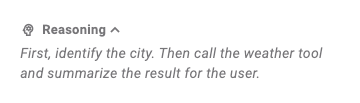
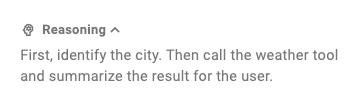
Demo: add New chat button; de-italicize reasoning text
- AiReasoning expanded text now uses regular subdued type (no italic)
- Demo controller lifted to the home page; header shows a New chat (clear)
  button on the Chat tab; ChatScreen is now stateless and takes the controller
- Screenshots/GIF regenerated

diff --git a/demo/lib/main.dart b/demo/lib/main.dart
@@ -43,6 +43,14 @@ class _HomePage extends StatefulWidget {
 
 class _HomePageState extends State<_HomePage> {
   int _tab = 0;
+  final UseChatController _controller =
+      UseChatController(provider: const DemoChatProvider());
+
+  @override
+  void dispose() {
+    _controller.dispose();
+    super.dispose();
+  }
 
   @override
   Widget build(BuildContext context) {
@@ -52,7 +60,7 @@ class _HomePageState extends State<_HomePage> {
           SafeArea(
             bottom: false,
             child: Padding(
-              padding: const EdgeInsets.fromLTRB(20, 14, 20, 10),
+              padding: const EdgeInsets.fromLTRB(20, 10, 12, 8),
               child: Row(
                 children: [
                   const Text(
@@ -64,14 +72,14 @@ class _HomePageState extends State<_HomePage> {
                     ),
                   ),
                   const Spacer(),
-                  Container(
-                    width: 10,
-                    height: 10,
-                    decoration: const BoxDecoration(
-                      color: Color(0xFF22C55E),
-                      shape: BoxShape.circle,
+                  // New-chat button (Chat tab only).
+                  if (_tab == 0)
+                    IconButton(
+                      icon: const Icon(Icons.edit_square),
+                      color: const Color(0xFF0D0D0D),
+                      tooltip: 'New chat',
+                      onPressed: _controller.clear,
                     ),
-                  ),
                 ],
               ),
             ),
@@ -99,7 +107,10 @@ class _HomePageState extends State<_HomePage> {
           Expanded(
             child: IndexedStack(
               index: _tab,
-              children: const [ChatScreen(), GalleryScreen()],
+              children: [
+                ChatScreen(controller: _controller),
+                const GalleryScreen(),
+              ],
             ),
           ),
         ],
@@ -108,28 +119,15 @@ class _HomePageState extends State<_HomePage> {
   }
 }
 
-/// A live chat backed by the scripted [DemoChatProvider].
-class ChatScreen extends StatefulWidget {
-  /// Creates the chat screen.
-  const ChatScreen({super.key});
+/// A live chat backed by a [UseChatController] (owned by the parent).
+class ChatScreen extends StatelessWidget {
+  /// Creates the chat screen bound to [controller].
+  const ChatScreen({super.key, required this.controller});
 
-  @override
-  State<ChatScreen> createState() => ChatScreenState();
-}
-
-/// State for [ChatScreen]; public so tests can drive the controller.
-class ChatScreenState extends State<ChatScreen> {
-  /// The chat controller bound to the demo provider.
-  final UseChatController controller =
-      UseChatController(provider: const DemoChatProvider());
+  /// The chat controller driving the conversation.
+  final UseChatController controller;
 
   static const DemoTextRenderer _renderer = DemoTextRenderer();
-
-  @override
-  void dispose() {
-    controller.dispose();
-    super.dispose();
-  }
 
   @override
   Widget build(BuildContext context) {

diff --git a/packages/flutter_ai_elements/lib/src/widgets/ai_reasoning.dart b/packages/flutter_ai_elements/lib/src/widgets/ai_reasoning.dart
@@ -65,12 +65,13 @@ class _AiReasoningState extends State<AiReasoning> {
           alignment: Alignment.topCenter,
           child: _expanded
               ? Padding(
-                  padding: const EdgeInsets.only(top: 4),
+                  padding: const EdgeInsets.only(top: 6),
                   child: Text(
                     widget.text,
-                    style: TextStyle(
-                      fontStyle: FontStyle.italic,
+                    style: theme.textStyle.copyWith(
                       color: subdued,
+                      fontSize: 14.5,
+                      height: 1.45,
                     ),
                   ),
                 )